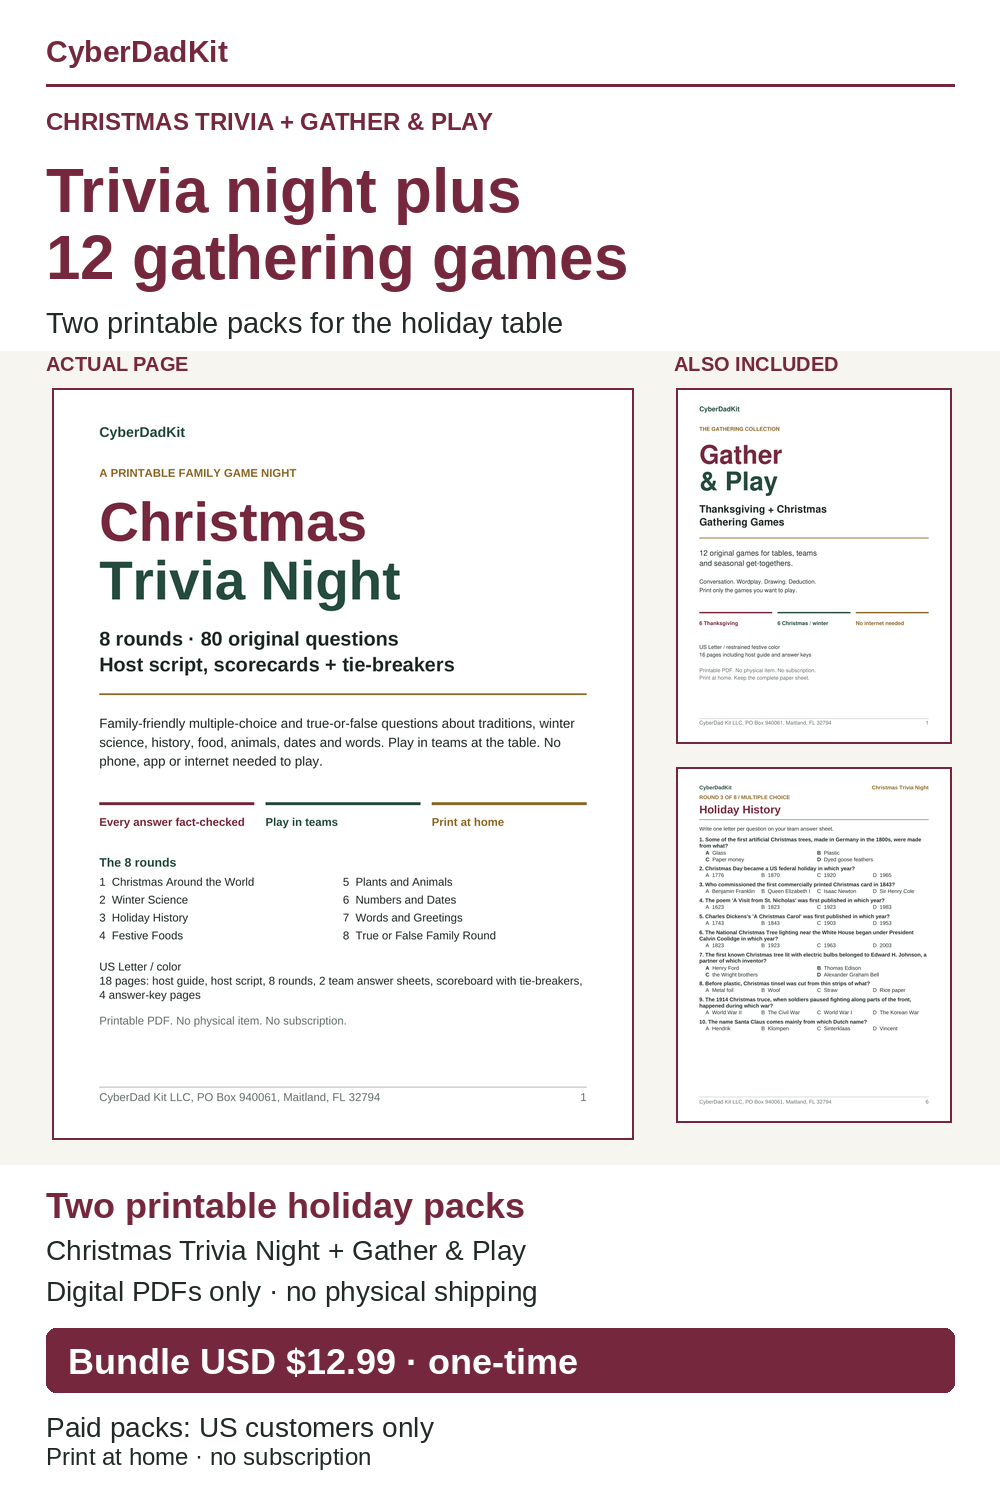
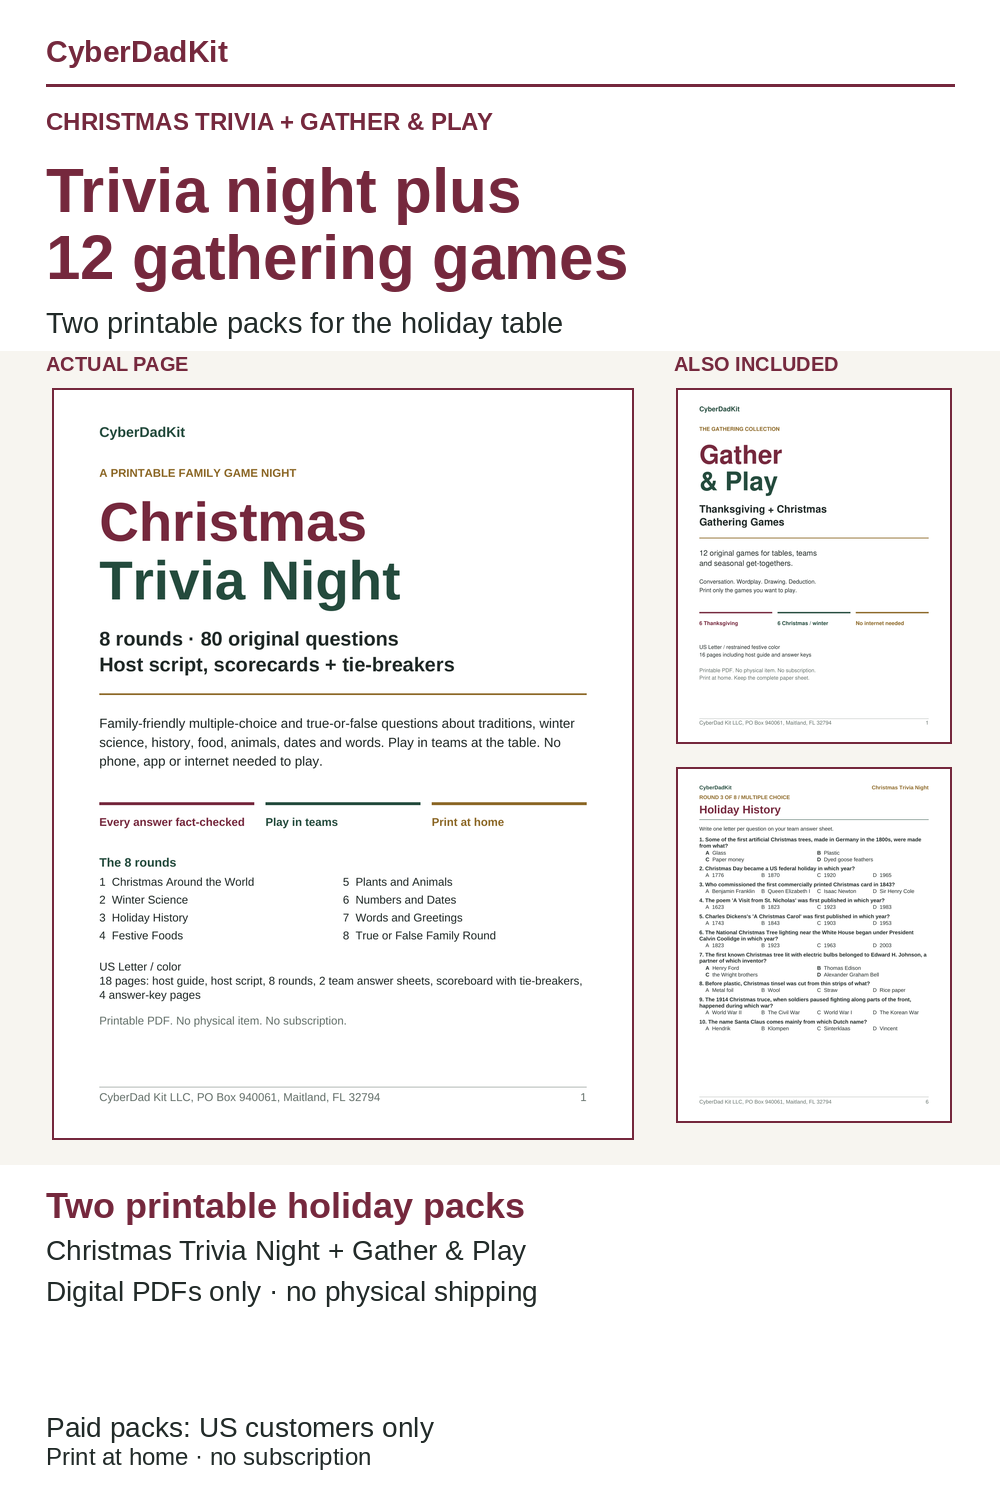
Holiday copy on the one-page shop: drop unsupported claims, remove Trivia pin prices, G&P pins say US Letter with no edition count
- assets/js/complete-optimizer.js: remove 'Used by millions of families worldwide', both 'money back guarantee' claims; trust_signals reduced to 'easy setup'; urgency_triggers, social_proof and fear_mitigation emptied;
  add the missing closing brace so the file passes node --check (file is excluded from the Jekyll build)
- README.md: remove the 'worldwide' line and the '12,000+ families' line
- Christmas Trivia pins 01-03: price badge removed
- Gather & Play pins (01-04 in both folders, pin-gathering-games, pin-low-ink): 'US Letter + A4' -> 'US Letter',
  and the '4 PDF editions' count line replaced with wording that has no edition count
- Hash pins updated in holiday/product.json and tests/check_holiday_storefront.py

Changed region(s): [[0.031, 0.8587, 0.961, 0.9507]]

diff --git a/assets/js/complete-optimizer.js b/assets/js/complete-optimizer.js
@@ -29,10 +29,10 @@ const CyberDadOptimizer = {
         },
         
         conversion_psychology: {
-            trust_signals: ['tested by families', 'expert recommended', 'easy setup', 'money back guarantee'],
-            urgency_triggers: ['limited time', 'exclusive deal', 'price increase soon'],
-            social_proof: ['thousands of families protected', 'parent testimonials', 'security expert endorsed'],
-            fear_mitigation: ['free trial', '30-day guarantee', 'no commitment', 'cancel anytime']
+            trust_signals: ['easy setup'],
+            urgency_triggers: [],
+            social_proof: [],
+            fear_mitigation: []
         },
         
         audit_tracking: {
@@ -560,8 +560,7 @@ const CyberDadOptimizer = {
                     target_audience: ['parents_with_young_kids', 'tech_beginners'],
                     objection_handlers: {
                         price: 'Free 30-day trial, cancel anytime',
-                        complexity: 'Setup in under 5 minutes',
-                        trust: 'Used by millions of families worldwide'
+                        complexity: 'Setup in under 5 minutes'
                     }
                 },
                 onepassword_families: {
@@ -584,8 +583,7 @@ const CyberDadOptimizer = {
                     target_audience: ['privacy_conscious', 'travelers', 'streamers'],
                     objection_handlers: {
                         price: 'Up to 70% off 2-year plans',
-                        complexity: 'One-click protection',
-                        trust: '30-day money-back guarantee'
+                        complexity: 'One-click protection'
                     }
                 }
             };
@@ -859,3 +857,4 @@ Ready to dominate search and convert visitors! 🚀
 // Export for module systems
 if (typeof module !== 'undefined' && module.exports) {
     module.exports = CyberDadOptimizer;
+}

diff --git a/tests/check_holiday_storefront.py b/tests/check_holiday_storefront.py
@@ -75,15 +75,15 @@ EXTRA_HOLIDAY_PAYMENT_URLS = {
     TRAVEL_PAYMENT_URL,
 }
 US_ELIGIBILITY = "Available only to customers located in the United States."
[2 lines of base64/hex data omitted]
 PIN_REL = "holiday/assets/pins/01-thanksgiving-host.png"
 PIN_FILES = {
[11 lines of base64/hex data omitted]
 }
 # Travel Adventure inside-page previews under holiday/pins/. Existence only:
 # PR #1028 did not pin sha256 for the t017d pins in this folder.
@@ -147,11 +147,11 @@ TRIVIA_FILES = {
     "holiday/trivia/sample/CyberDadKit-Christmas-Trivia-Night-FREE-SAMPLE-US-Letter.pdf":
[1 lines of base64/hex data omitted]
     "holiday/assets/trivia/pins/01-christmas-trivia-family.png":
[2 lines of base64/hex data omitted]
     "holiday/assets/trivia/pins/02-christmas-trivia-80-questions.png":
[2 lines of base64/hex data omitted]
     "holiday/assets/trivia/pins/03-trivia-gather-play-bundle.png":
[2 lines of base64/hex data omitted]
     "holiday/assets/trivia/previews/CyberDadKit-Christmas-Trivia-preview-page-01.png":
[1 lines of base64/hex data omitted]
     "holiday/assets/trivia/previews/CyberDadKit-Christmas-Trivia-preview-page-05.png":

diff --git a/README.md b/README.md
@@ -118,7 +118,6 @@ Every recommendation is practical for real families with real constraints.
 ## 📧 **Stay Protected**
 
 ### **🔔 Get Instant Cybersecurity Alerts**
-Join **12,000+ families** getting real-time notifications about threats affecting their devices.
 
 **👉 [Subscribe for FREE alerts](https://getcyberdadkit.com) 👈**
 
@@ -165,7 +164,6 @@ Join **12,000+ families** getting real-time notifications about threats affectin
 ### **Community Impact**
 - 🛡 **Protecting families** through accessible cybersecurity education
 - 📈 **Growing audience** of security-conscious parents
-- 🌍 **International reach** helping families worldwide
 - 💡 **Practical advice** that families actually implement
 
 ---
